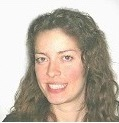
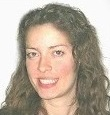
105 - all

diff --git a/views/people.md b/views/people.md
@@ -133,7 +133,7 @@ His research interests are on social intelligence of virtual agents and its appl
 #### Carlos Martinho (INESC-ID)
 
 <span class="logo">
-<img width="100" src="images/carlos.png" alt="">
+<img width="105" src="images/carlos.png" alt="">
 <br></br>
 <span class="logo">
 </br>
@@ -150,7 +150,7 @@ At GAIPS, since its foundation, he works at the frontier between computer graphi
 #### Pedro Santos (IST/INESC-ID)
 
 <span class="logo">
-<img width="100" src="images/pedro.png" alt="">
+<img width="105" src="images/pedro.png" alt="">
 <br></br>
 <span class="logo">
 </br>
@@ -168,7 +168,7 @@ His numerous scientific interests include Operator Theory, Artificial Inteligenc
 #### Jorge F. Peña (University of Austin TEXAS)
 
 <span class="logo">
-<img width="100" src="images/jorge.png" alt="">
+<img width="105" src="images/jorge.png" alt="">
 <br></br>
 <span class="logo">
 </br>
@@ -184,7 +184,7 @@ His most recent work looks at how priming users with social stereotypes through 
 #### Luís Landeiro Ribeiro (PDM&FC)
 
 <span class="logo">
-<img width="100" src="images/luis.png" alt="">
+<img width="105" src="images/luis.png" alt="">
 <br></br>
 <span class="logo">
 </br>
@@ -203,7 +203,7 @@ Though ruby continues to be a great love affair, finds himself slipping into sca
 #### Joana Dimas (INESC-ID)
 
 <span class="logo">
-<img width="100" src="images/joana.png" alt=""> 
+<img width="105" src="images/joana.png" alt=""> 
 <br></br>
 <span class="logo">
 </br>
@@ -220,7 +220,7 @@ She is interested in game design, player experience, emotion in games and cognit
 #### Hugo Damas (IST)
 
 <span class="logo">
-<img width="100" src="images/hdamas.jpg" alt="">
+<img width="105" src="images/hdamas.jpg" alt="">
 <br></br>
 <span class="logo">
 </br>
@@ -237,7 +237,7 @@ His main interests are video-game development (developed five video-games focusi
 #### Phil Lopes (IST)
 
 <span class="logo">
-<img width="100" src="images/phil.jpg" alt="">
+<img width="105" src="images/phil.jpg" alt="">
 <br></br>
 <span class="logo">
 </br>
@@ -254,7 +254,7 @@ His main interests are Game Development, Generative Music, Genetic Algorithms, A
 #### Guida Preto (IST)
 
 <span class="logo">
-<img width="100" src="images/guida.jpg" alt="">
+<img width="105" src="images/guida.jpg" alt="">
 <br></br>
 <span class="logo">
 </br>
@@ -271,7 +271,7 @@ Beyond Mathematics in general, her main scientific interests include Mathematica
 #### Nick Brody (University of Austin TEXAS)
  
 <span class="logo">
-<img width="100" src="images/brody.jpg" alt="">
+<img width="105" src="images/brody.jpg" alt="">
 <br></br>
 <span class="logo">
 </br>
@@ -286,7 +286,7 @@ He received his M.A. in Communication at Arizona State University, and his B.S. 
 #### Kate Blackburn (University of Austin TEXAS)
 
 <span class="logo">
-<img width="100" src="images/kate.JPG" alt="">
+<img width="105" src="images/kate.JPG" alt="">
 <br></br>
 <span class="logo">
 </br>
@@ -300,7 +300,7 @@ Kate Blackburn is a doctoral candidate at Department of Communication Studies at
 #### Matt Morris (University of Austin TEXAS)
 
 <span class="logo">
-<img width="100" src="images/matt.png" alt="">
+<img width="105" src="images/matt.png" alt="">
 <br></br>
 <span class="logo">
 </br>
@@ -314,7 +314,7 @@ Matt Morris is a doctoral candidate in the Department of Communication Studies a
 #### Guilherme Raimundo (INESC-ID) - Former Member
 
 <span class="logo">
-<img width="100" src="images/guilherme.png" alt="">
+<img width="105" src="images/guilherme.png" alt="">
 <br></br>
 <span class="logo">
 </br>
@@ -331,7 +331,7 @@ He is currently pursuing a PhD in Information Systems and Computer Engineering a
 #### Márcia Baptista (IST) - Former Member
 
 <span class="logo">
-<img width="100" src="images/marcia.png" alt="">
+<img width="105" src="images/marcia.png" alt="">
 <br></br>
 <span class="logo">
 </br>
@@ -355,7 +355,7 @@ Project INVITE also involves the collaboration of several students:
 #### André Loureiro (IST)
 
 <span class="logo">
-<img width="100" src="images/andre.jpg" alt="">
+<img width="105" src="images/andre.jpg" alt="">
 <br></br>
 <span class="logo">
 </br>
@@ -372,7 +372,7 @@ His main interests are artificial intelligence, game development and 3D modeling
 #### Gonçalo Pereira (INESC-ID)
 
 <span class="logo">
-<img width="100" src="images/goncalo.jpg" alt="">
+<img width="105" src="images/goncalo.jpg" alt="">
 <br></br>
 <span class="logo">
 </br>
@@ -389,7 +389,7 @@ His focus is the concept of social power, its dynamics and how to integrate thos
 #### Jorge Galvão (IST)
 
 <span class="logo">
-<img width="100" src="images/jgalvao.png" alt="">
+<img width="105" src="images/jgalvao.png" alt="">
 <br></br>
 <span class="logo">
 </br>
@@ -406,7 +406,7 @@ His main interests are Game Development, Artificial Intelligence and Game Physic
 #### Bruno Antunes (IST)
 
 <span class="logo">
-<img width="100" src="images/bruno.png" alt="">
+<img width="105" src="images/bruno.png" alt="">
 <br></br>
 <span class="logo">
 </br>
@@ -424,7 +424,7 @@ He is also interested in distributed systems and all the related problems.
 #### David Gonçalves (IST)
 
 <span class="logo">
-<img width="100" src="images/davidg.png" alt="">
+<img width="105" src="images/davidg.png" alt="">
 <br></br>
 <span class="logo">
 </br>
@@ -441,7 +441,7 @@ He is mostly interested in the topics related to game design and development, fr
 #### Alexandre Barata (IST)
 
 <span class="logo">
-<img width="100" src="images/alexandre.png" alt="">
+<img width="105" src="images/alexandre.png" alt="">
 <br></br>
 <span class="logo">
 </br>
